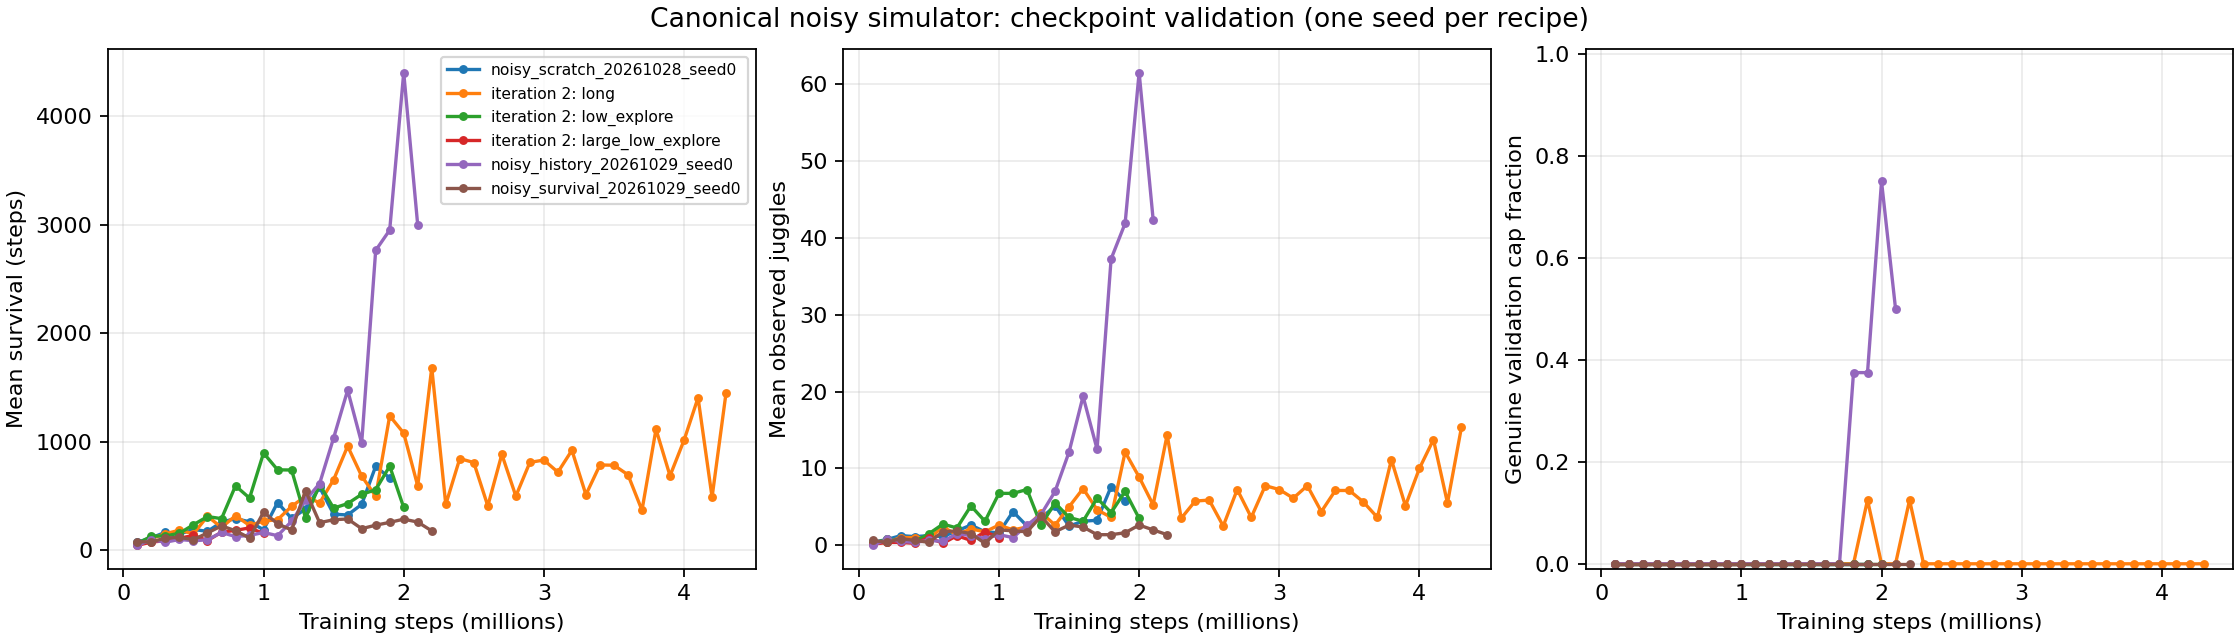
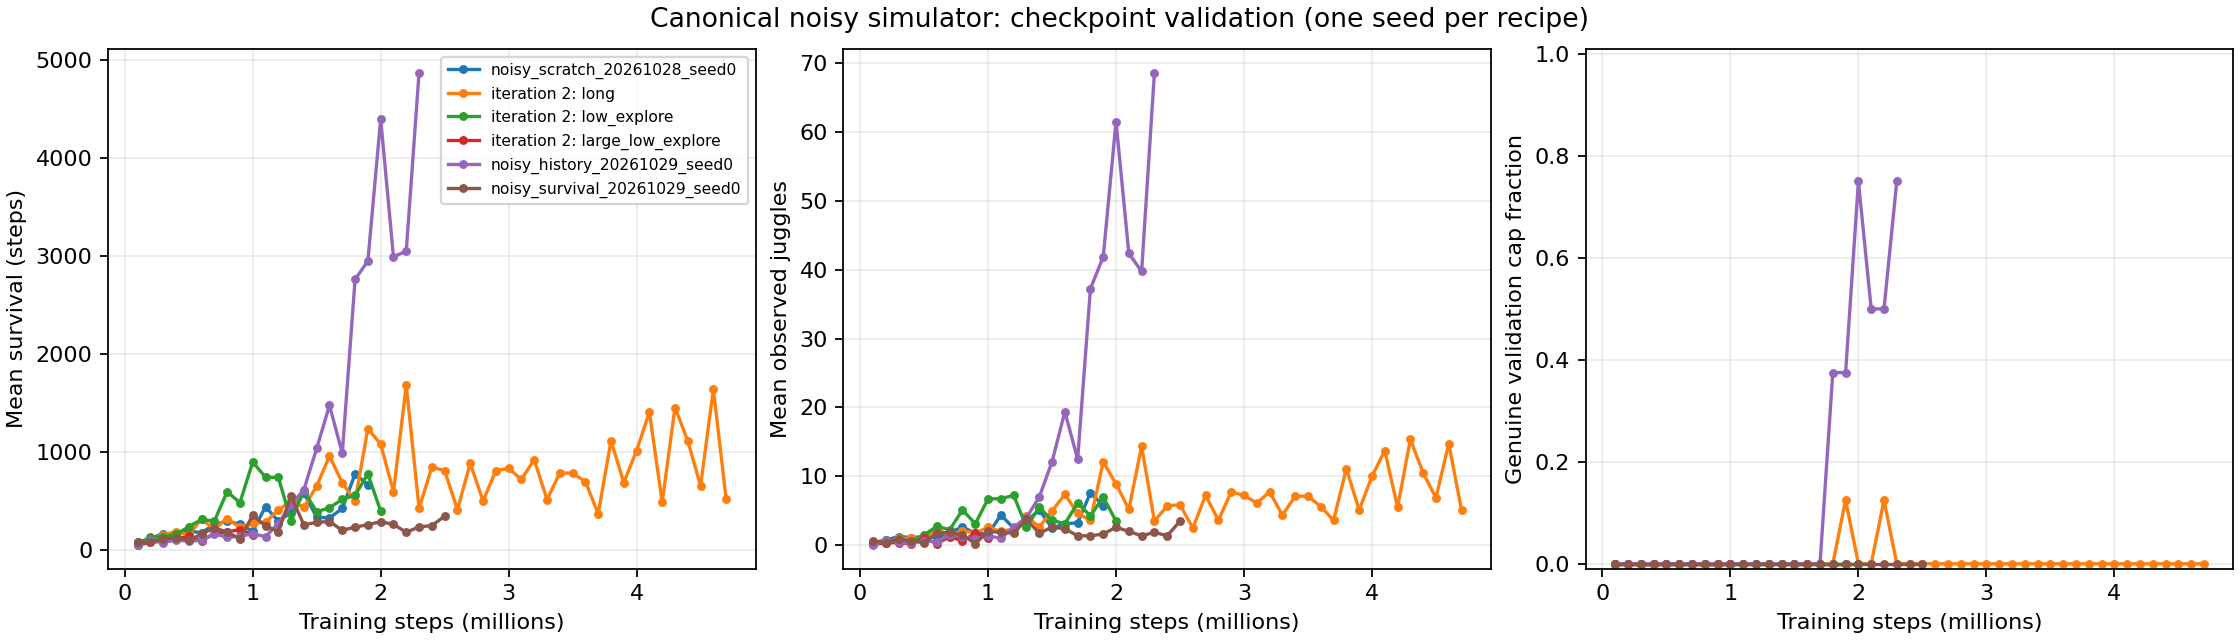
Measure history checkpoint gains at 20k and prepare scratch replication

diff --git a/docs/juggling-noisy-progress.md b/docs/juggling-noisy-progress.md
@@ -1,6 +1,6 @@
 # Noisy juggling progress
 
-Generated 2026-10-29T20:12:18.125723+00:00 from saved evaluations; no new rollouts.
+Generated 2026-10-29T20:25:45.659520+00:00 from saved evaluations; no new rollouts.
 
 Validation curves use repeatedly evaluated starts, not independent acceptance tests. Each point is an episode mean for one training seed. Check the CSV for episode counts, seeds and caps. Observed juggle counts use noisy camera positions and a direction-reversal filter. Contact timesteps are not distinct juggles. Cap fractions use the physical-trajectory heuristic when available, otherwise the legacy observed-count heuristic.
 
@@ -11,11 +11,11 @@ Validation curves use repeatedly evaluated starts, not independent acceptance te
 | Run | Runner status | Latest validation step | Mean survival | Mean juggles | Genuine cap fraction |
 |---|---|---:|---:|---:|---:|
 | noisy_scratch_20261028_seed0 | complete | 1,900,000 | 663.4 | 5.75 | 0.0% |
-| noisy_iteration2_20261029_long | training | 4,300,000 | 1450.6 | 15.38 | 0.0% |
+| noisy_iteration2_20261029_long | training | 4,700,000 | 513.2 | 5.12 | 0.0% |
 | noisy_iteration2_20261029_low_explore | interrupted | 2,000,000 | 392.0 | 3.50 | 0.0% |
 | noisy_iteration2_20261029_large_low_explore | interrupted | 1,000,000 | 152.6 | 1.00 | 0.0% |
-| noisy_history_20261029_seed0 | training | 2,100,000 | 2992.8 | 42.38 | 50.0% |
-| noisy_survival_20261029_seed0 | training | 2,200,000 | 176.1 | 1.38 | 0.0% |
+| noisy_history_20261029_seed0 | training | 2,300,000 | 4876.1 | 68.62 | 75.0% |
+| noisy_survival_20261029_seed0 | training | 2,500,000 | 341.1 | 3.50 | 0.0% |
 
 Separate-start evaluations (selection and benchmark phases labeled):
 
@@ -32,5 +32,7 @@ Separate-start evaluations (selection and benchmark phases labeled):
 - [noisy_iteration2_20261029_large_low_explore, validation-selected checkpoint benchmark](../runs/td3/noisy_iteration2_20261029_large_low_explore/selected_eval/results.json): 225.8 mean steps, 1.62 observed juggles, 1.94 physical-trajectory juggles, 0.0% cap completion; 32 starts from seed 400000, cap 10000.
 - [noisy_history_20261029_seed0, independent 1m6 20k eval](../runs/td3/noisy_history_20261029_seed0/independent_1m6_20k_eval/results.json): 3606.7 mean steps, 46.50 observed juggles, 51.66 physical-trajectory juggles, 0.0% cap completion; 32 starts from seed 500000, cap 20000.
 - [noisy_history_20261029_seed0, milestone 1m6 benchmark](../runs/td3/noisy_history_20261029_seed0/milestone_1m6_benchmark/results.json): 3519.4 mean steps, 45.16 observed juggles, 51.31 physical-trajectory juggles, 9.4% cap completion; 32 starts from seed 300000, cap 10000.
+- [noisy_history_20261029_seed0, milestone 2m1 benchmark](../runs/td3/noisy_history_20261029_seed0/milestone_2m1_benchmark/results.json): 4885.3 mean steps, 66.69 observed juggles, 74.34 physical-trajectory juggles, 28.1% cap completion; 32 starts from seed 300000, cap 10000.
+- [noisy_history_20261029_seed0, paired 2m1 20k eval](../runs/td3/noisy_history_20261029_seed0/paired_2m1_20k_eval/results.json): 7066.3 mean steps, 97.81 observed juggles, 108.72 physical-trajectory juggles, 12.5% cap completion; 32 starts from seed 500000, cap 20000.
 
 The final-start benchmark is reused across recipes. A selected policy requires untouched seeds and longer horizons before acceptance. Bounded survival does not prove infinite survival.

diff --git a/notes/scratch/experiments/2026-10-29_20-19_history-2m1-milestone.md b/notes/scratch/experiments/2026-10-29_20-19_history-2m1-milestone.md
@@ -1,0 +1,23 @@
+# History 2.1M checkpoint milestone
+
+Recorded 2026-10-29 15:19:59 -0500. The completed shared benchmark improves to9/32 genuine10k caps, but remains unreliable. No change to the simulator, sensing/control or DR; normal continuation of the existing random-initialized history learner.
+
+Checkpoint: `runs/td3/noisy_history_20261029_seed0/train/checkpoint_2100000`. Results: `runs/td3/noisy_history_20261029_seed0/milestone_2m1_benchmark/results.json`. Same32 reused seeds300000–300031, cap10000: mean4885.28125, median3190, min264,74.34375 mean physical-trajectory juggles,23failures. All9 caps satisfy the physical repeat-juggle heuristic. Mean action delta RMS0.4165324672. Previous1.6M mean3519.375,3/32 caps. Paired mean difference1365.90625,21/32 wins, paired bootstrap10000resamples with NumPy default_rng(42),95% interval[-332.4703125,3050.4234375]. The interval includes zero; one training seed and shared starts preclude a strong reliability/generalization claim.
+
+Reproduction command (choose a new output directory):
+
+```sh
+.venv/bin/python -m scripts.td3.juggle_survival --run-dir runs/td3/noisy_history_20261029_seed0/train/checkpoint_2100000 --out-dir NEW_OUTPUT --scenario-set training --horizon 10000 --episodes 32 --seed-base 300000 --gif-steps 0
+```
+
+A paired20k evaluation is now **running**, root `runs/td3/noisy_history_20261029_seed0/paired_2m1_20k_eval`, samecommand with horizon20000 and seed-base500000. Those seeds were independent for the1.6M test but are now reused. No result is claimed yet. All three training processes were confirmed live. No new GIF generated for this milestone; the immediately preceding E019 contains two published clips. No implementation changes/tests in this task.
+
+[Per-start comparison](../../../docs/juggling-history-benchmark.csv), [previous experiment](../../../docs/experiment_logbook.md#e019).
+
+## Planned replication (not launched)
+
+Prepared `configs/td3/sustained/noisy_history_scratch_seed1.yaml`, differing from the active history recipe only in training seed1 and run name. Scratch routing and canonical environment guards pass. It will train actor, critics and encoder from random initialization; no candidate checkpoint is a source. A second training seed will test whether the architectural gain replicates. No GPU allocated yet; existing learners continue. This is preparation, not a completed experiment.
+
+## Completed longer-test status update — 2026-10-29 15:25:44 -0500
+
+The paired20k evaluation completed: mean7066.28125, median5100.5, minimum173,108.71875 mean physical-trajectory juggles,4/32 genuine caps and28failures. Cap seeds500014/500016/500018/500021 have295/301/333/338 physical juggles. Previous1.6M on identical starts: mean3606.6875,0/32 caps. Paired mean improvement3459.59375,95% paired bootstrap interval[1170.4515625,5843.27734375],22/32 wins (10000resamples, default_rng42). Starts are reused; no new independent acceptance claim. This supports retaining2.1M as the stronger research candidate while normal training continues. Candidate manifest now points to its SHA25683819bb1d7ef4ccb3ccb0cb276f91a4de89505d1a2293b887172e2c59f698b0b. [Per-start20k comparison](../../../docs/juggling-history-20k-comparison.csv). No completion claim:28failures remain.

diff --git a/docs/agent_logbook.md b/docs/agent_logbook.md
@@ -6,6 +6,7 @@ Entries and contents are ordered newest first; IDs remain permanent.
 
 ## Table of contents
 
+- [A021 — Measure newer history checkpoint and start paired longer test](#a021)
 - [A020 — Publish history milestone and independent failure test](#a020)
 - [A019 — Prepare independently testable actor and critic controls](#a019)
 - [A018 — Evaluate and isolate an unsuccessful state-estimator candidate](#a018)
@@ -26,6 +27,16 @@ Entries and contents are ordered newest first; IDs remain permanent.
 - [A003 — Restore original sensing and matched comparison](#a003)
 - [A002 — Clean diagnostics and evaluation](#a002)
 - [A001 — Continuing-task implementation](#a001)
+
+<a id="a021"></a>
+
+## A021 — 2026-10-29 15:19:59 -0500 — Measure newer history checkpoint and start paired longer test
+
+Codex completed the2.1M frozen history benchmark and started a matched20k comparison without changing live training.
+
+**Evidence:** [E020](experiment_logbook.md#e020), [detailed note](../notes/scratch/experiments/2026-10-29_20-19_history-2m1-milestone.md), extended per-start comparison. Verified evaluation handle exited successfully and all three learner launcher processes remained live. Improvement is promising but9/32caps is insufficient. The new32-start20k test is running; its reused seeds must not be called fresh acceptance. Earlier GIF/logbook commit0869bce was confirmed pushed. Prepared [history seed1 replication](../configs/td3/sustained/noisy_history_scratch_seed1.yaml), changing only seed/run name; scratch and canonical guards pass. It is **not launched** and will use random initialization. No simulator changes or new implementation tests.
+
+**Status update 2026-10-29 15:25:44 -0500:** Completed the paired20k test and published per-start results;4/32 genuine caps remains insufficient. Updated frozen candidate pointer/hash to2.1M and retained the earlier independent-test provenance with an explicit reused-start limitation. Seed1 replication remains planned.
 
 <a id="a020"></a>
 

diff --git a/docs/experiment_logbook.md b/docs/experiment_logbook.md
@@ -6,6 +6,7 @@ Entries and contents are ordered newest first; IDs remain permanent.
 
 ## Table of contents
 
+- [E020 — History 2.1M reaches nine shared benchmark caps](#e020)
 - [E019 — History improves survival; fresh 20k test still fails](#e019)
 - [E018 — Aim-point and critic-action-context CPU smokes pass](#e018)
 - [E017 — Reject a fixed observer after negative offline estimates](#e017)
@@ -25,6 +26,18 @@ Entries and contents are ordered newest first; IDs remain permanent.
 - [E003 — Original-sensing fine-tuning regression](#e003)
 - [E002 — Clean-simulation iterations and failed transfer](#e002)
 - [E001 — Initial sustained-juggling studies](#e001)
+
+<a id="e020"></a>
+
+## E020 — 2026-10-29 15:19:59 -0500 — History 2.1M reaches nine shared benchmark caps
+
+The continued scratch history learner reaches9/32 genuine10k shared-start caps while23starts still fail.
+
+**Completed:** Mean4885.28125, median3190,74.34375 physical-trajectory juggles, versus1.6M mean3519.375 and3/32 caps. Paired difference1365.90625, bootstrap95% interval[-332.4703125,3050.4234375],21/32 wins. Reused benchmark; single training seed. [Detailed results and exact command](../notes/scratch/experiments/2026-10-29_20-19_history-2m1-milestone.md); [per-start CSV](juggling-history-benchmark.csv).
+
+**Running:** Paired20k test on previously used500000–500031; no outcome yet. Three scratch training jobs remain active. No simulator changes, no new training initialization. No new GIF for this milestone; see [E019 clips](#e019). [A021](agent_logbook.md#a021).
+
+**Status update 2026-10-29 15:25:44 -0500:** The paired20k test completed: mean7066.28125, median5100.5,4/32 genuine caps,28failures. Previous1.6M on identical starts: mean3606.6875,0/32caps. Paired difference3459.59375,95% bootstrap interval[1170.4515625,5843.27734375]. [Per-start comparison](juggling-history-20k-comparison.csv). Both seed sets are reused research tests; candidate pointer updated, no acceptance claim.
 
 <a id="e019"></a>
 

diff --git a/notes/scratch/experiments/INDEX.md b/notes/scratch/experiments/INDEX.md
@@ -78,3 +78,5 @@ Format: `- YYYY-MM-DD HH:MM | topic | one-sentence outcome | [file](path)`
 - 2026-10-29 19:40 | Actor/critic CPU smoke controls | Two opt-in scratch variants pass CPU update/reload checks; default eager outputs/gradients match prior code exactly; full trials unlaunched | [file](2026-10-29_19-40_actor-critic-cpu-smokes.md)
 
 - 2026-10-29 20:15 | History matched and independent tests | Shared mean3519; independent20k mean3607,0/32 caps; selected episode17049steps | [file](2026-10-29_20-15_history-benchmark-independent.md)
+
+- 2026-10-29 20:19 | History2.1M milestone | Shared mean4885,9/32 at10k; paired20k test running | [file](2026-10-29_20-19_history-2m1-milestone.md)
